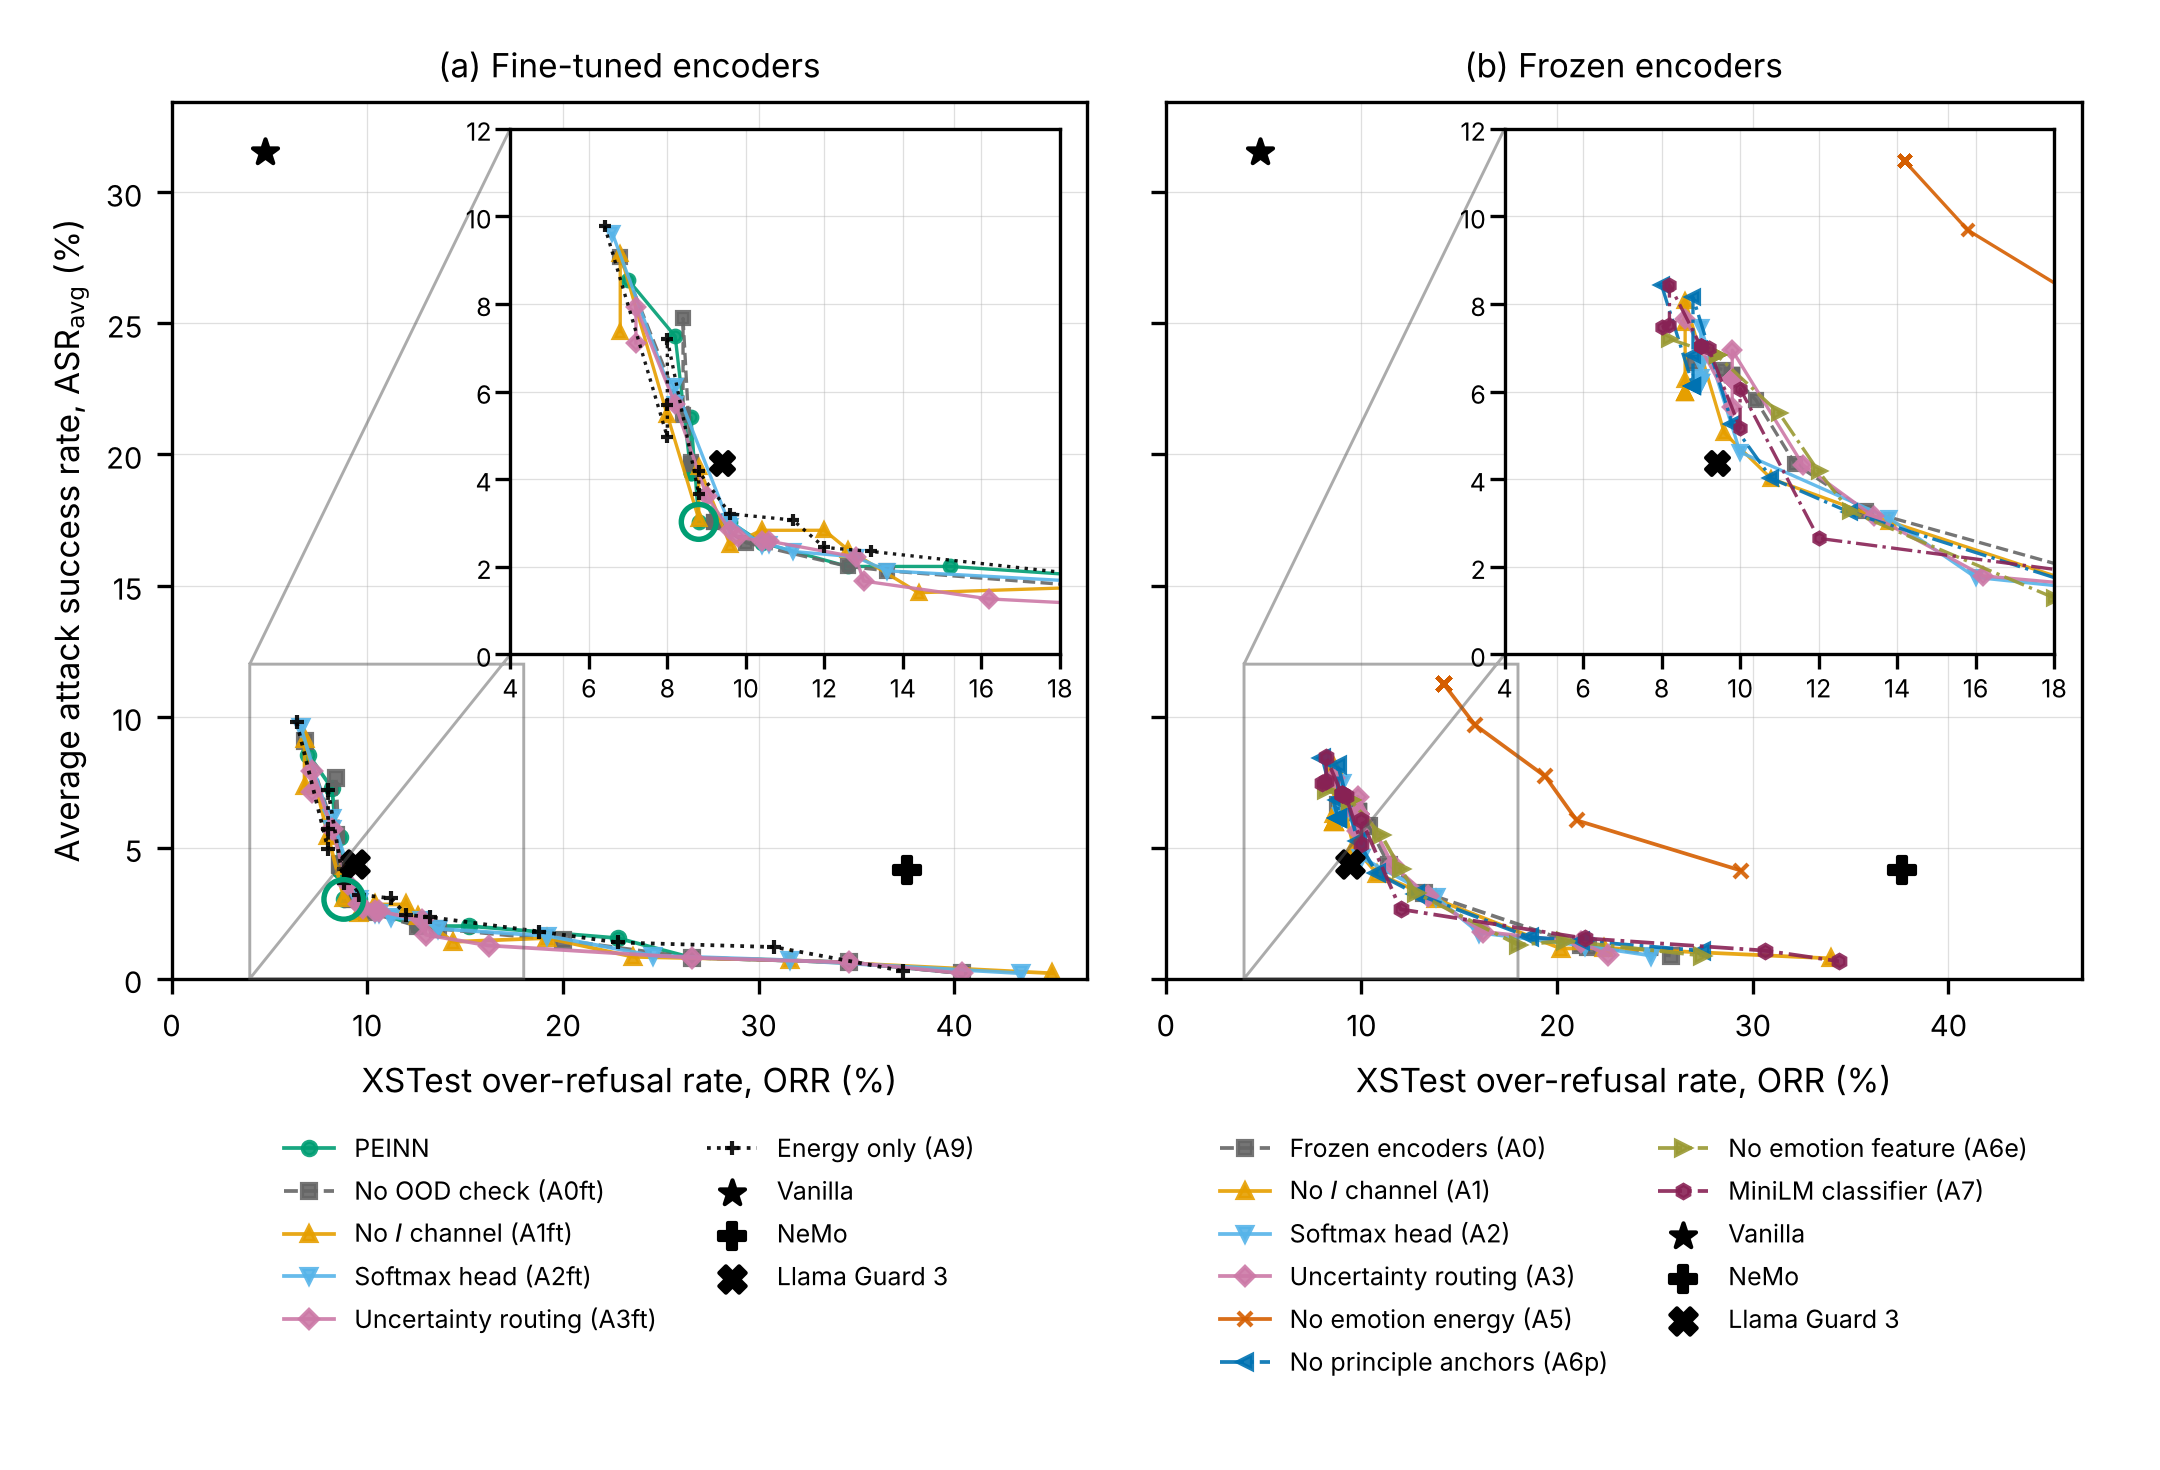
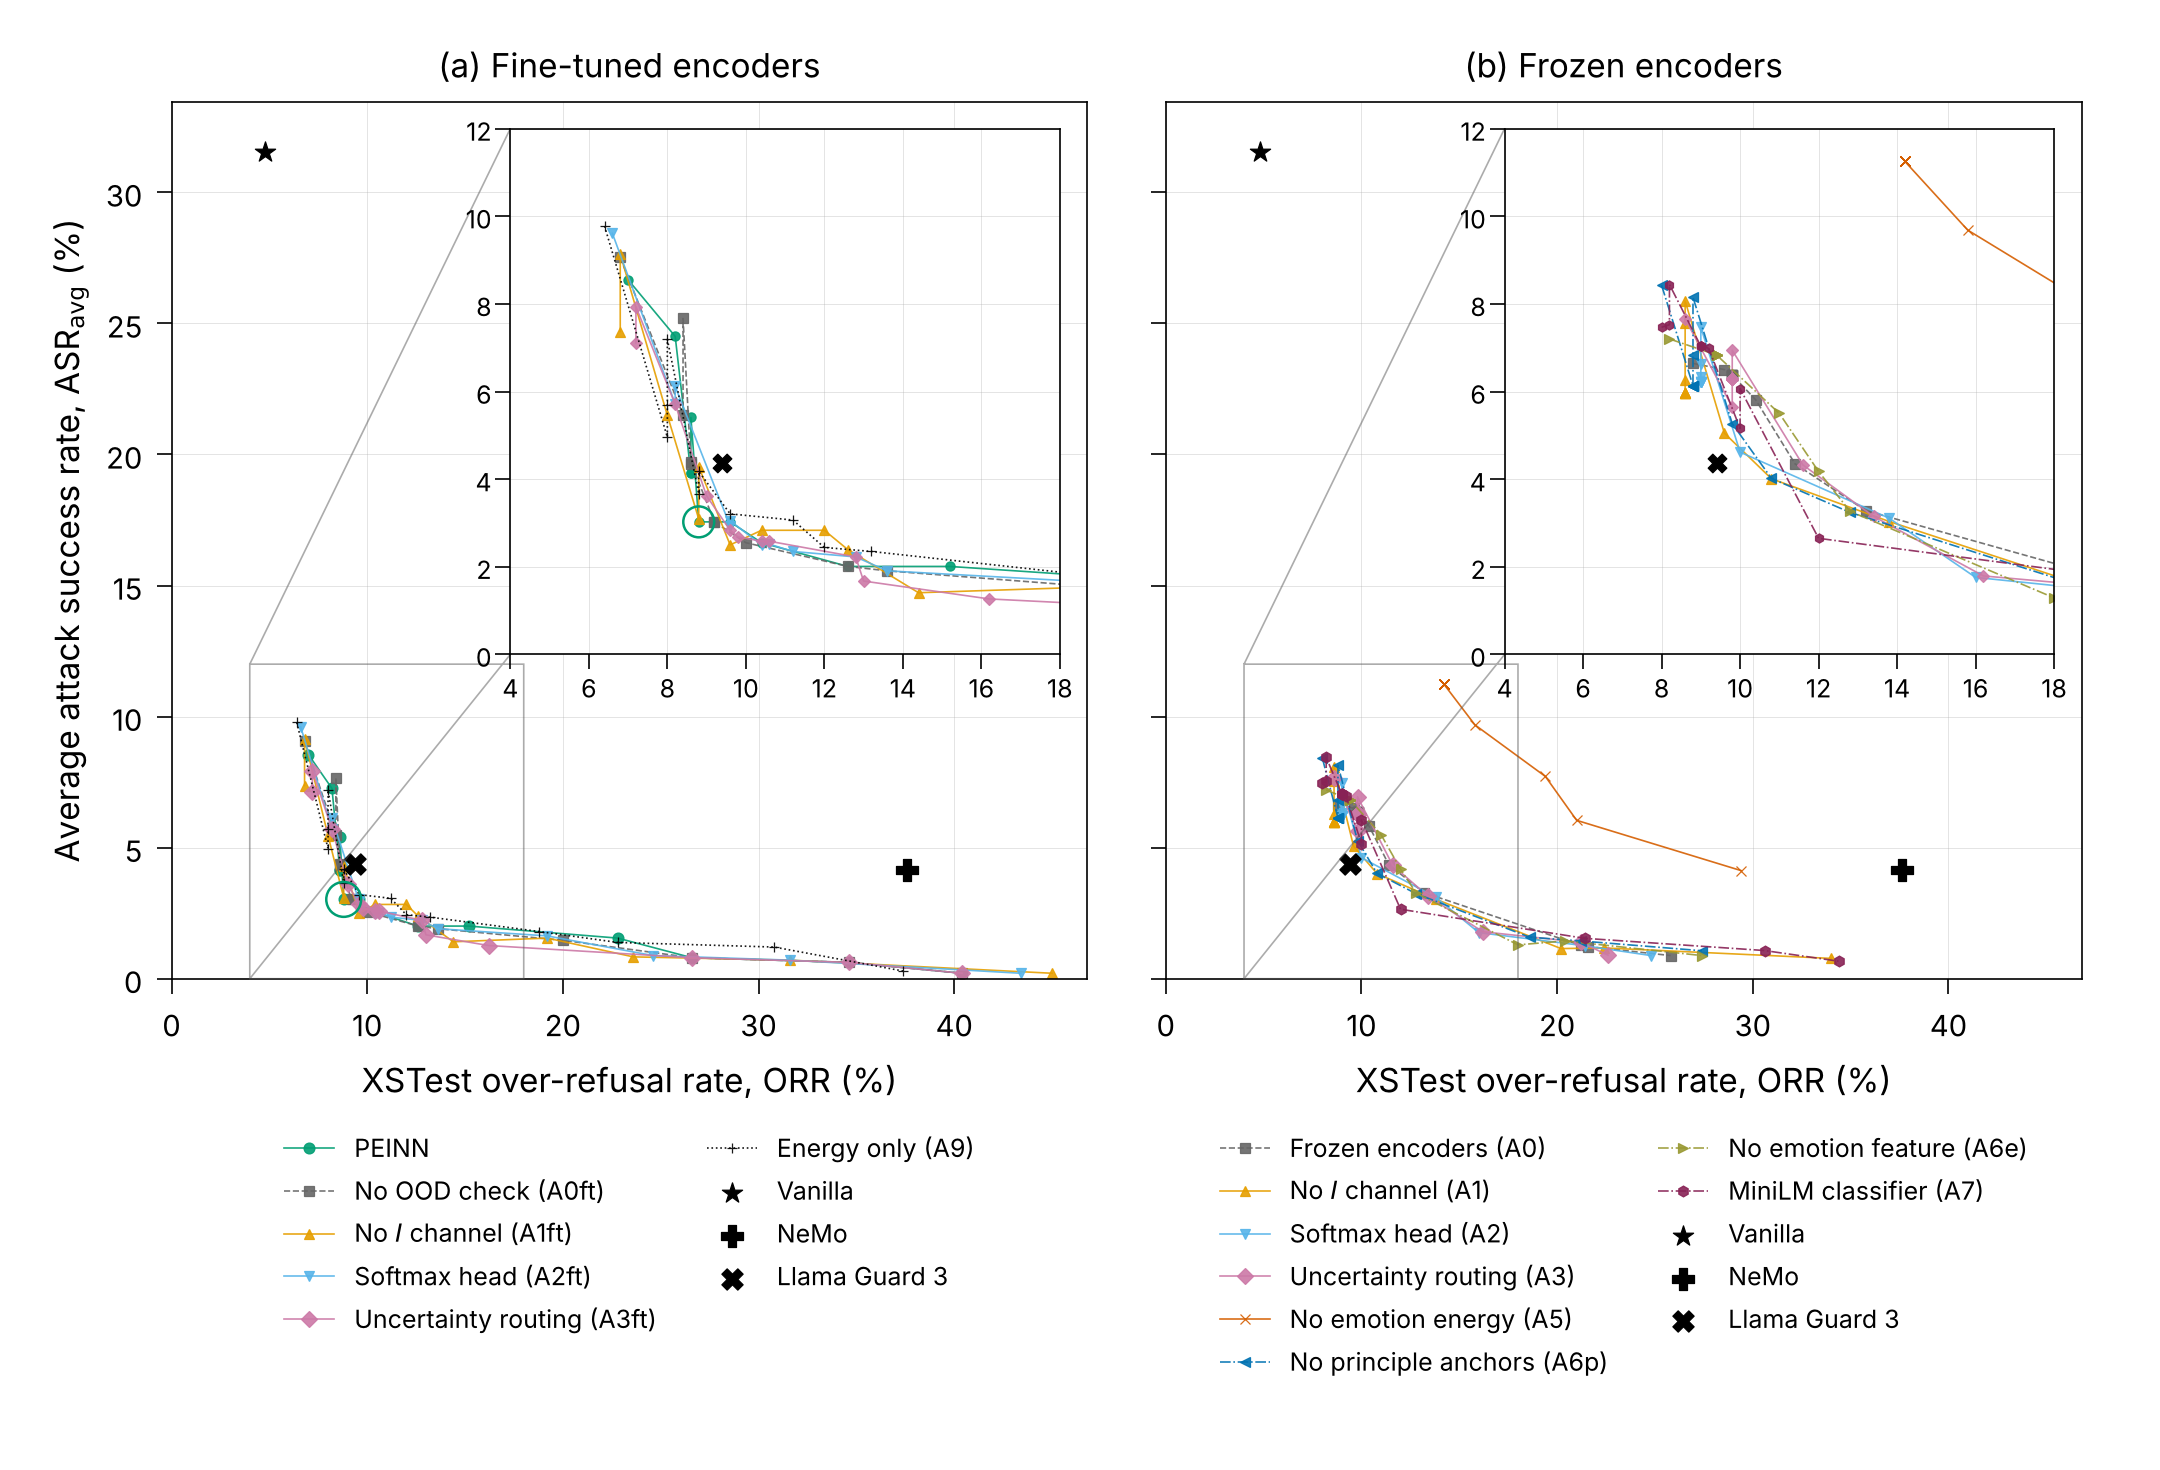
v21r paper-ablation: Figure 6 drawn with the thinnest strokes (lines 0.4 pt, marker edges 0.3 pt, axes 0.4 pt)
Only the figure changes; ablation.json and the table bodies regenerate identically.

Claude-Session: https://claude.ai/code/session_01EYuobj3uWoUKAsLA4THHsZ

diff --git a/revision/aai_r1/v21r/paper_ablation.py b/revision/aai_r1/v21r/paper_ablation.py
@@ -205,6 +205,9 @@ def curves(out: dict, caps, o) -> None:
     import matplotlib
     matplotlib.use("Agg")
     import matplotlib.pyplot as plt
+    # thinnest legible strokes, so that crowded curves and markers stay apart at print size
+    plt.rcParams.update({"lines.linewidth": 0.4, "lines.markeredgewidth": 0.3, "axes.linewidth": 0.4,
+                         "xtick.major.width": 0.4, "ytick.major.width": 0.4, "patch.linewidth": 0.4})
     fig, axes = plt.subplots(1, 2, figsize=(7.2, 4.9), sharex=True, sharey=True)
     ft = {"A0ftM": ("#009e73", "o", "-"), "A0ft": ("#666666", "s", "--"), "A1ft": ("#e69f00", "^", "-"),
           "A2ft": ("#56b4e9", "v", "-"), "A3ft": ("#cc79a7", "D", "-"), "A9": ("#000000", "+", ":")}
@@ -230,14 +233,14 @@ def curves(out: dict, caps, o) -> None:
         for v, (col, mk, ls) in style.items():
             if v in lines:
                 x, y = zip(*lines[v])
-                ax.plot(x, y, ls, marker=mk, color=col, ms=2.8 if small else 3.2, lw=0.8 if small else 0.9, alpha=0.9,
+                ax.plot(x, y, ls, marker=mk, color=col, ms=2.2 if small else 2.6, lw=0.4, mew=0.3, alpha=0.9,
                         label=(LABEL[v] if v == "A0ftM" else f"{LABEL[v]} ({v})") if legend else None)
         for s, mk in (("Vanilla", "*"), ("NeMo", "P"), ("LlamaGuard", "X")):
             x, y = defs[s]
-            ax.scatter([x], [y], marker=mk, s=30 if small else 40, color="black", zorder=3,
+            ax.scatter([x], [y], marker=mk, s=20 if small else 26, color="black", linewidths=0.3, zorder=3,
                        label={"LlamaGuard": "Llama Guard 3"}.get(s, s) if legend else None)
         if style is ft:
-            ax.scatter([main_pt[0]], [main_pt[1]], s=70 if small else 90, facecolor="none", edgecolor="#009e73", lw=1.3, zorder=4)
+            ax.scatter([main_pt[0]], [main_pt[1]], s=55 if small else 70, facecolor="none", edgecolor="#009e73", lw=0.6, zorder=4)
 
     for ax, style, title in ((axes[0], ft, "(a) Fine-tuned encoders"), (axes[1], fr, "(b) Frozen encoders")):
         draw(ax, style, True, False)
@@ -246,16 +249,16 @@ def curves(out: dict, caps, o) -> None:
         ax.set_title(title, fontsize=8)
         ax.set_xlabel("XSTest over-refusal rate, ORR (%)", fontsize=8)
         ax.tick_params(labelsize=7)
-        ax.grid(lw=0.3, alpha=0.4)
+        ax.grid(lw=0.2, alpha=0.4)
         ax.legend(fontsize=6, frameon=False, ncol=2, loc="upper center", bbox_to_anchor=(0.5, -0.15))
         ins = ax.inset_axes([0.37, 0.37, 0.6, 0.6])
         draw(ins, style, False, True)
         ins.set_xlim(*ZOOM_X)
         ins.set_ylim(*ZOOM_Y)
         ins.tick_params(labelsize=6, pad=1)
-        ins.grid(lw=0.3, alpha=0.4)
+        ins.grid(lw=0.2, alpha=0.4)
         ins.set_facecolor("white")
-        ax.indicate_inset_zoom(ins, edgecolor="0.35", lw=0.7)
+        ax.indicate_inset_zoom(ins, edgecolor="0.35", lw=0.4)
     axes[0].set_ylabel(r"Average attack success rate, ASR$_{\mathrm{avg}}$ (%)", fontsize=8)
     fig.tight_layout()
     fig.savefig(o / "ablation_curves.png", dpi=300)
